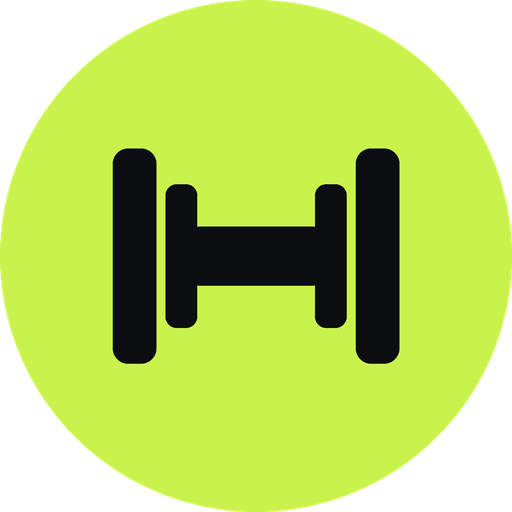
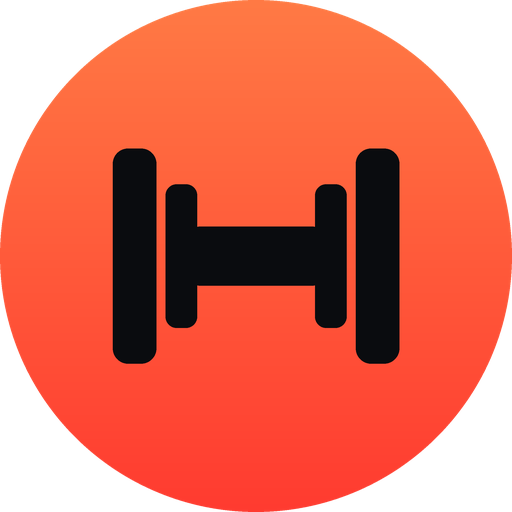
Tira a nuvem e reforça o armazenamento local
- remove a camada de conta/Supabase: os dados ficam só no aparelho
- espelho em IndexedDB: se o iOS limpar o localStorage, o app recupera na abertura
- backup em arquivo (.json) para salvar e restaurar, além do backup por texto
- ícone e theme-color acertados para a identidade atual
- vídeo com prazo limite: cai na animação desenhada se não carregar em 4,5s

diff --git a/js/app.js b/js/app.js
@@ -3,7 +3,7 @@
 
 const KEY = 'meutreino.v1';
 const S = { cfg:null, plano:null, meus:[], hist:[], sessao:null, cargas:{}, tela:'hoje', ctx:{},
-            atualizado:0, ultimoSync:0, avisoSync:'',
+            atualizado:0,
             onb:{ passo:0, resp:{ evitar:[] } } };
 
 /* ---------------- armazenamento ---------------- */
@@ -17,8 +17,50 @@ function gravar(d){
 }
 function salvar(){
   S.atualizado = Date.now();
-  gravar(dadosLocais());
-  if (typeof agendarSync === 'function') agendarSync();
+  const d = dadosLocais();
+  gravar(d);
+  espelhar(d);
+}
+
+/* ---------------- espelho em IndexedDB ----------------
+   O localStorage do iPhone pode ser limpo pelo sistema. Guardamos uma cópia
+   em IndexedDB e, se a principal sumir, o app recupera sozinho na abertura. */
+let bancoIDB = null;
+function abrirBanco(){
+  return new Promise(resolve => {
+    if (bancoIDB) return resolve(bancoIDB);
+    if (!window.indexedDB) return resolve(null);
+    let req;
+    try { req = indexedDB.open('meutreino', 1); } catch(e){ return resolve(null); }
+    req.onupgradeneeded = () => { try { req.result.createObjectStore('estado'); } catch(e){} };
+    req.onsuccess = () => { bancoIDB = req.result; resolve(bancoIDB); };
+    req.onerror = () => resolve(null);
+  });
+}
+async function espelhar(d){
+  const b = await abrirBanco(); if (!b) return;
+  try { b.transaction('estado', 'readwrite').objectStore('estado').put(d, 'atual'); } catch(e){}
+}
+async function lerEspelho(){
+  const b = await abrirBanco(); if (!b) return null;
+  return new Promise(resolve => {
+    try {
+      const r = b.transaction('estado', 'readonly').objectStore('estado').get('atual');
+      r.onsuccess = () => resolve(r.result || null);
+      r.onerror = () => resolve(null);
+    } catch(e){ resolve(null); }
+  });
+}
+/* na abertura: se o espelho estiver mais novo que o principal, ele manda */
+async function conferirEspelho(){
+  const copia = await lerEspelho();
+  if (!copia) { espelhar(dadosLocais()); return; }
+  if ((copia.atualizado || 0) > (S.atualizado || 0) + 1000) {
+    aplicarDados(copia, copia.atualizado);
+    console.info('dados recuperados do espelho local');
+  } else {
+    espelhar(dadosLocais());
+  }
 }
 function carregar(){
   try {
@@ -27,7 +69,7 @@ function carregar(){
     S.sessao = d.sessao || null; S.cargas = d.cargas || {}; S.atualizado = d.atualizado || 0;
   } catch(e){ console.warn('dados corrompidos, começando do zero', e); }
 }
-/* usado pela sincronização quando a nuvem está mais nova que o aparelho */
+/* usado quando a cópia do IndexedDB está mais nova que o armazenamento principal */
 function aplicarDados(d, quando){
   if (!d) return;
   S.cfg = d.cfg || null; S.plano = d.plano || null; S.meus = d.meus || []; S.hist = d.hist || [];
@@ -126,10 +168,12 @@ function montarCanvas(){
 
   const v = document.querySelector('video[data-ex]');
   if (v) {
-    v.addEventListener('error', () => trocarPorDesenho(v.dataset.ex), { once:true });
+    // se o vídeo não vier em alguns segundos (internet ruim ou offline), mostra a animação desenhada
+    const prazo = setTimeout(() => { if (v.readyState < 2) trocarPorDesenho(v.dataset.ex); }, 4500);
+    v.addEventListener('error', () => { clearTimeout(prazo); trocarPorDesenho(v.dataset.ex); }, { once:true });
     const tocarVideo = () => { const p = v.play(); if (p && p.catch) p.catch(() => {}); };
     tocarVideo();
-    v.addEventListener('loadeddata', tocarVideo, { once:true });
+    v.addEventListener('loadeddata', () => { clearTimeout(prazo); tocarVideo(); }, { once:true });
   }
   const grande = document.querySelector('canvas[data-anim]');
   if (grande && MOV[grande.dataset.anim]) animAtual = tocar(grande, MOV[grande.dataset.anim]);
@@ -452,58 +496,30 @@ function telaHistorico(){
 }
 
 /* ---------------- tela: ajustes ---------------- */
-function statusSync(){
-  if (S.avisoSync) return S.avisoSync;
-  if (!S.ultimoSync) return 'ainda não sincronizou neste aparelho';
-  const min = Math.round((Date.now() - S.ultimoSync) / 60000);
-  return min < 1 ? 'sincronizado agora' : 'sincronizado há ' + plural(min, 'minuto', 'minutos');
-}
-
-function traduzErro(m){
-  m = String(m || '');
-  if (/Invalid login/i.test(m)) return 'E-mail ou senha incorretos.';
-  if (/already registered/i.test(m)) return 'Esse e-mail já tem conta. Use Entrar.';
-  if (/at least 6/i.test(m)) return 'A senha precisa de pelo menos 6 caracteres.';
-  if (/valid email/i.test(m)) return 'E-mail inválido.';
-  if (/Failed to fetch|NetworkError/i.test(m)) return 'Sem conexão com a internet.';
-  if (/rate limit|too many/i.test(m)) return 'Muitas tentativas. Espere um minuto.';
-  return m;
-}
-
-function cardConta(){
-  if (!nuvemLigada())
-    return '<div class="card"><div class="xs dim" style="margin-bottom:8px">Conta</div>'
-      + '<div class="sm dim">A sincronização entre aparelhos ainda não foi configurada. '
-      + 'Por enquanto os dados ficam só neste aparelho.</div></div>';
-
-  if (logado())
-    return '<div class="card"><div class="xs dim" style="margin-bottom:10px">Conta</div>'
-      + '<div class="row"><span class="badge acc">' + h((AUTH.email || '?').charAt(0).toUpperCase()) + '</span>'
-      + '<span class="grow"><span class="sm" style="font-weight:650">' + h(AUTH.email || '') + '</span>'
-      + '<span class="sm dim">' + h(statusSync()) + '</span></span></div>'
-      + '<button class="btn ghost" data-act="sync" style="margin-top:14px">Sincronizar agora</button>'
-      + '<button class="btn danger" data-act="sair" style="margin-top:10px">Sair da conta</button></div>';
-
-  return '<div class="card"><div class="xs dim" style="margin-bottom:10px">Conta</div>'
-    + '<div class="sm dim" style="margin-bottom:13px">Entre para guardar treinos e histórico na nuvem '
-    + 'e continuar de onde parou em qualquer aparelho.</div>'
-    + '<input class="inp busca" id="campoEmail" type="email" inputmode="email" autocomplete="email" placeholder="seu@email.com">'
-    + '<input class="inp busca" id="campoSenha" type="password" autocomplete="current-password" placeholder="senha" style="margin-top:9px">'
-    + (S.avisoSync ? '<div class="sm" style="color:#FF8A7E;margin-top:10px">' + h(S.avisoSync) + '</div>' : '')
-    + '<button class="btn" data-act="entrar" style="margin-top:13px">Entrar</button>'
-    + '<button class="btn ghost" data-act="criar-conta" style="margin-top:10px">Criar conta</button></div>';
+function cardDados(){
+  const quando = S.atualizado ? new Date(S.atualizado) : null;
+  return '<div class="card"><div class="xs dim" style="margin-bottom:10px">Seus dados</div>'
+    + '<div class="sm dim" style="margin-bottom:13px">Tudo fica guardado neste aparelho, sem conta e sem servidor. '
+    + 'O app mant\u00e9m uma c\u00f3pia de seguran\u00e7a interna e recupera sozinho se o sistema limpar o armazen'
+    + 'amento principal.</div>'
+    + (quando ? '<div class="sm dim">\u00daltima altera\u00e7\u00e3o: ' + quando.toLocaleDateString('pt-BR')
+        + ' \u00e0s ' + quando.toLocaleTimeString('pt-BR', { hour:'2-digit', minute:'2-digit' }) + '</div>' : '')
+    + '<button class="btn ghost" data-act="baixar-backup" style="margin-top:13px">Salvar backup em arquivo</button>'
+    + '<button class="btn ghost" data-act="abrir-arquivo" style="margin-top:10px">Restaurar de um arquivo</button>'
+    + '<input type="file" id="arquivoBackup" accept="application/json,.json" style="display:none">'
+    + '</div>';
 }
 
 function telaAjustes(){
   return '<div class="wrap fade" style="padding-top:16px">'
-    + cardConta()
+    + cardDados()
     + cardInstalar()
     + '<div class="card"><div class="xs dim" style="margin-bottom:10px">Rotina</div>'
     + '<button class="btn ghost" data-act="refazer">Refazer o questionário</button>'
     + '<button class="btn ghost" data-act="variar" style="margin-top:9px">Gerar outra variação</button></div>'
-    + '<div class="card"><div class="xs dim" style="margin-bottom:10px">Meus dados</div>'
-    + '<button class="btn ghost" data-act="backup">Copiar backup dos meus dados</button>'
-    + '<button class="btn ghost" data-act="restaurar" style="margin-top:9px">Restaurar a partir de um backup</button>'
+    + '<div class="card"><div class="xs dim" style="margin-bottom:10px">Backup por texto</div>'
+    + '<button class="btn ghost" data-act="backup">Copiar meus dados</button>'
+    + '<button class="btn ghost" data-act="restaurar" style="margin-top:9px">Colar dados de um backup</button>'
     + '<button class="btn danger" data-act="apagar" style="margin-top:9px">Apagar tudo e recomeçar</button></div>'
     + '<div class="card tight"><span class="sm dim">Este app guarda tudo no seu próprio iPhone. '
     + 'Nada é enviado para servidor nenhum. Os vídeos de execução e os mapas musculares vêm do MuscleWiki.</span></div>'
@@ -682,37 +698,19 @@ document.addEventListener('click', ev => {
     S.onb = { passo:0, resp:Object.assign({ evitar:[] }, S.cfg) };
     S.cfg = null; S.plano = null; render();
   }
-  else if (a === 'entrar' || a === 'criar-conta') {
-    const email = (document.getElementById('campoEmail') || {}).value;
-    const senha = (document.getElementById('campoSenha') || {}).value;
-    if (!email || !senha) { S.avisoSync = 'Preencha e-mail e senha.'; render(); return; }
-    alvo.textContent = 'Aguarde...';
-    S.avisoSync = '';
-    (a === 'entrar' ? entrar(email, senha) : criarConta(email, senha))
-      .then(res => {
-        if (res && res.confirmar) {
-          S.avisoSync = 'Conta criada. Confirme o link no seu e-mail e depois toque em Entrar.';
-          render(); return;
-        }
-        return sincronizar().then(r => {
-          S.ultimoSync = Date.now();
-          S.avisoSync = '';
-          render();
-          if (r.estado === 'baixou') alert('Pronto. Seus treinos foram baixados da nuvem.');
-          else alert('Pronto. Seus dados agora estão salvos na nuvem.');
-        });
-      })
-      .catch(e => { S.avisoSync = traduzErro(e.message); render(); });
+  else if (a === 'baixar-backup') {
+    try {
+      const blob = new Blob([JSON.stringify(dadosLocais())], { type:'application/json' });
+      const url = URL.createObjectURL(blob);
+      const link = document.createElement('a');
+      link.href = url; link.download = 'meu-treino-' + hoje() + '.json';
+      document.body.appendChild(link); link.click(); link.remove();
+      setTimeout(() => URL.revokeObjectURL(url), 5000);
+    } catch(e){ alert('N\u00e3o deu para gerar o arquivo neste navegador. Use "Copiar meus dados".'); }
   }
-  else if (a === 'sair') {
-    if (confirm('Sair da conta? Os dados continuam neste aparelho.')) { sair(); S.ultimoSync = 0; render(); }
-  }
-  else if (a === 'sync') {
-    alvo.textContent = 'Sincronizando...';
-    sincronizar(true)
-      .then(r => { S.ultimoSync = Date.now(); S.avisoSync = ''; render();
-                   if (r.estado === 'offline') alert('Sem internet agora. Vai sincronizar sozinho quando voltar.'); })
-      .catch(e => { S.avisoSync = traduzErro(e.message); render(); });
+  else if (a === 'abrir-arquivo') {
+    const inp = document.getElementById('arquivoBackup');
+    if (inp) inp.click();
   }
   else if (a === 'backup') {
     const txt = localStorage.getItem(KEY) || '{}';
@@ -723,7 +721,12 @@ document.addEventListener('click', ev => {
   else if (a === 'restaurar') {
     const txt = prompt('Cole aqui o backup:');
     if (!txt) return;
-    try { JSON.parse(txt); localStorage.setItem(KEY, txt); carregar(); render(); alert('Dados restaurados.'); }
+    try {
+      const d = JSON.parse(txt);
+      aplicarDados(d, d.atualizado || Date.now());
+      espelhar(dadosLocais());
+      alert('Dados restaurados.');
+    }
     catch(e){ alert('Esse texto não parece um backup válido.'); }
   }
   else if (a === 'apagar') {
@@ -733,6 +736,21 @@ document.addEventListener('click', ev => {
       S.onb = { passo:0, resp:{ evitar:[] } }; render();
     }
   }
+});
+
+document.addEventListener('change', ev => {
+  if (ev.target.id !== 'arquivoBackup' || !ev.target.files || !ev.target.files[0]) return;
+  const leitor = new FileReader();
+  leitor.onload = () => {
+    try {
+      const d = JSON.parse(leitor.result);
+      if (!d || (!d.plano && !d.meus && !d.hist)) throw new Error('formato');
+      aplicarDados(d, d.atualizado || Date.now());
+      espelhar(dadosLocais());
+      alert('Backup restaurado.');
+    } catch(e){ alert('Esse arquivo n\u00e3o parece um backup do Meu Treino.'); }
+  };
+  leitor.readAsText(ev.target.files[0]);
 });
 
 document.addEventListener('input', ev => {
@@ -828,16 +846,7 @@ function concluirTreino(){
 /* ---------------- início ---------------- */
 carregar();
 if (navigator.storage && navigator.storage.persist) navigator.storage.persist().catch(() => {});
-if (typeof logado === 'function' && logado()) {
-  sincronizar().then(r => { S.ultimoSync = Date.now(); if (r.estado === 'baixou') render(); }).catch(() => {});
-}
-document.addEventListener('visibilitychange', () => {
-  if (document.visibilityState === 'visible' && typeof logado === 'function' && logado())
-    sincronizar().then(r => { S.ultimoSync = Date.now(); if (r.estado === 'baixou') render(); }).catch(() => {});
-});
-window.addEventListener('online', () => {
-  if (typeof logado === 'function' && logado()) sincronizar().catch(() => {});
-});
+conferirEspelho();
 if (S.plano && S.sessao) S.tela = 'hoje';
 render();
 if ('serviceWorker' in navigator) {

diff --git a/index.html b/index.html
@@ -5,7 +5,7 @@
 <title>Meu Treino</title>
 <meta name="viewport" content="width=device-width, initial-scale=1, viewport-fit=cover, user-scalable=no">
 <meta name="description" content="Monte sua rotina de treino e veja o vídeo de execução de cada exercício.">
-<meta name="theme-color" content="#0b0d10">
+<meta name="theme-color" content="#090B0E">
 <link rel="manifest" href="manifest.webmanifest">
 <meta name="apple-mobile-web-app-capable" content="yes">
 <meta name="mobile-web-app-capable" content="yes">
@@ -27,7 +27,6 @@
 <script src="js/anim.js"></script>
 <script src="js/movimentos.js"></script>
 <script src="js/engine.js"></script>
-<script src="js/nuvem.js"></script>
 <script src="js/app.js"></script>
 </body>
 </html>

diff --git a/sw.js b/sw.js
@@ -1,9 +1,9 @@
 /* Service worker: deixa o app abrir offline */
-const CACHE = 'meutreino-v4';
+const CACHE = 'meutreino-v6';
 const ARQUIVOS = [
   './', './index.html', './css/app.css',
-  './js/data.js', './js/videos.js', './js/anim.js', './js/movimentos.js', './js/engine.js', './js/nuvem.js', './js/app.js',
-  './manifest.webmanifest', './icons/icon-192.png', './icons/icon-512.png', './icons/icon-180.png'
+  './js/data.js', './js/videos.js', './js/anim.js', './js/movimentos.js', './js/engine.js', './js/app.js',
+  './manifest.webmanifest', './icons/icon-192.png', './icons/icon-512.png', './icons/icon-180.png', './icons/icon-512-maskable.png'
 ];
 
 self.addEventListener('install', ev => {
